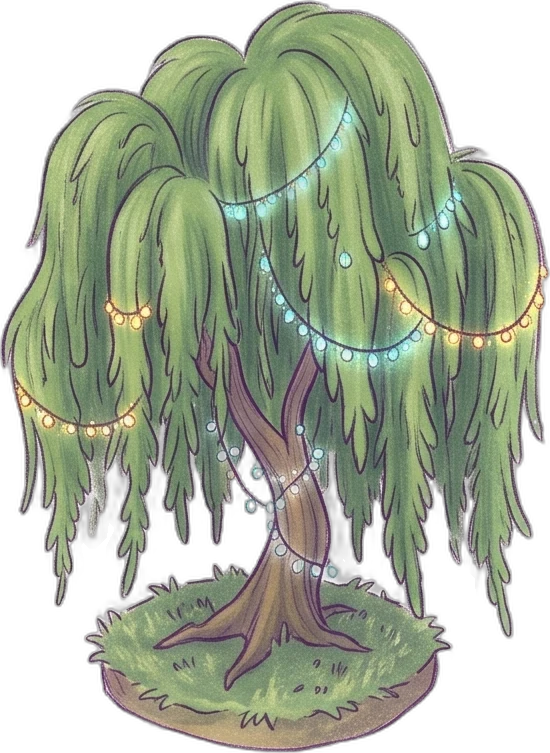
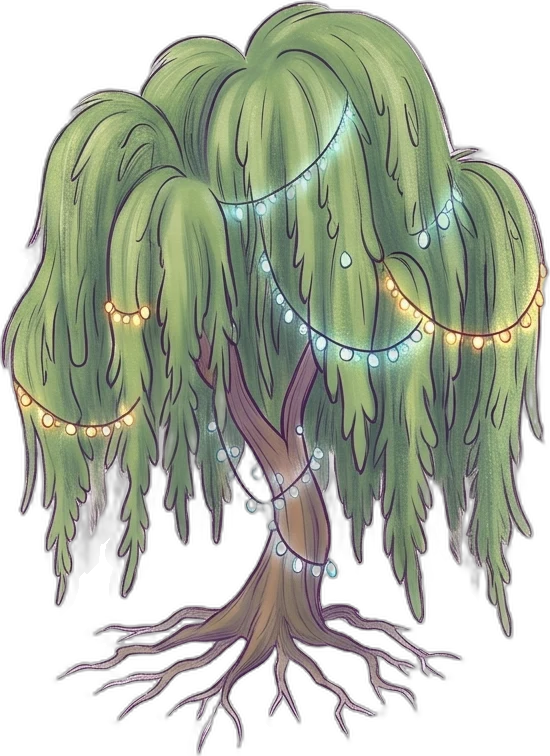
Build 194: trees redrawn without the round ground islands (her «Почему деревья на каком то пьедестале кружочком?»): forest1b sheet (SYNTX 2 tokens), trunks end in roots on the grass

diff --git a/js/game.js b/js/game.js
@@ -2,13 +2,13 @@
 import {
   OFFLINE_CAP_SEC, MAX_DESKS, MAX_ITEM_LEVEL, MAX_TEACHER_LEVEL, MAX_TIME_LEVEL,
   CLASSES, SPECIES, NAMES, MISSIONS, WORLDS, WORLD, META,
-} from './data.js?v=193';
-import { EMOJI_RE, emojiImage, preloadEmoji, watchEmoji, emojiHtml } from './emoji.js?v=193';
+} from './data.js?v=194';
+import { EMOJI_RE, emojiImage, preloadEmoji, watchEmoji, emojiHtml } from './emoji.js?v=194';
 
 const SAVE_KEY = WORLD === 1 ? 'magicschool.save.v2' : 'magicschool.save.v2.w' + WORLD;   // every world keeps its own save
 const saveKeyOf = (w) => (w === 1 ? 'magicschool.save.v2' : 'magicschool.save.v2.w' + w);
 const VERSION = '0.9';
-const BUILD = 193;   // keep equal to the ?v= number in index.html
+const BUILD = 194;   // keep equal to the ?v= number in index.html
 const $ = (s, r = document) => r.querySelector(s);
 const rnd = (a) => a[Math.floor(Math.random() * a.length)];
 
@@ -1465,7 +1465,7 @@ function statKey() { return (cantBuilt() ? (cantOpen() ? 'C' : 'c') : '') + S.cl
 const OUT_H = { oak: 180, blossom: 150, willow: 165, goldtree: 150, fir: 172, toadhouse: 96, glowmush: 40, crystals: 44, berrybush: 44, fern: 38, hedge: 42, roses: 40, roses2: 40, boulder: 40, bells: 38,
   runestone: 44, stump: 32, starflowers: 30, pumpkin: 60, well: 70, beehive: 46, birdbath: 42, chestmush: 34, fairyring: 46 };   // world px; a class wall is ~106, a student 30 (her ruling: trees must be big)
 const outLo = {};   // small copies (240 px tall) for the far view: downscaling an 800 px tree every frame is slow
-for (const n of ['grass', 'path', ...Object.keys(OUT_H)]) { const im = new Image(); im.onload = () => { staticKey = ''; if (im.naturalHeight > 300) { const c = document.createElement('canvas'), k = 240 / im.naturalHeight; c.width = Math.round(im.naturalWidth * k); c.height = 240; c.getContext('2d').drawImage(im, 0, 0, c.width, c.height); outLo[n] = c; } }; im.src = `assets/parts/outdoor/${n}.webp?v=1`; parts['outdoor/' + n] = im; }
+for (const n of ['grass', 'path', ...Object.keys(OUT_H)]) { const im = new Image(); im.onload = () => { staticKey = ''; if (im.naturalHeight > 300) { const c = document.createElement('canvas'), k = 240 / im.naturalHeight; c.width = Math.round(im.naturalWidth * k); c.height = 240; c.getContext('2d').drawImage(im, 0, 0, c.width, c.height); outLo[n] = c; } }; im.src = `assets/parts/outdoor/${n}.webp?v=2`; parts['outdoor/' + n] = im; }
 let GRASS_ON = true, BG_OFF = false;
 const hash2 = (x, y, k = 0) => { let h = (x * 374761393 + y * 668265263 + k * 2246822519) | 0; h = Math.imul(h ^ (h >>> 13), 1274126177); return ((h ^ (h >>> 16)) >>> 0) / 4294967296; };
 let OUTDOOR = [], outKey = '', OUT_ON = true;   // the random scatter is off (her verdict 2026-11-22: «понатыкано тыщу элементов», and it lagged)

diff --git a/index.html b/index.html
@@ -12,7 +12,7 @@
 <link rel="manifest" href="manifest.webmanifest">
 <link rel="apple-touch-icon" href="icons/icon-180.png?v=2">
 <link rel="icon" href="icons/icon-192.png?v=2">
-<link rel="stylesheet" href="style.css?v=193">
+<link rel="stylesheet" href="style.css?v=194">
 </head>
 <body>
 <div id="app">
@@ -34,6 +34,6 @@ window.addEventListener('error',function(e){showErr(e.message+' @'+(e.filename||
 window.addEventListener('unhandledrejection',function(e){showErr(String(e.reason));});
 if(!CanvasRenderingContext2D.prototype.roundRect){CanvasRenderingContext2D.prototype.roundRect=function(x,y,w,h){this.rect(x,y,w,h);};}
 </script>
-<script type="module" src="js/game.js?v=193"></script>
+<script type="module" src="js/game.js?v=194"></script>
 </body>
 </html>

diff --git a/js/emoji.js b/js/emoji.js
@@ -1,6 +1,6 @@
 // One emoji look on every device: emoji characters are replaced by bundled Twemoji pictures
 // (CC-BY 4.0, https://github.com/jdecked/twemoji), both in the page (DOM) and on the canvas.
-import { EMOJI_FILES } from './emoji-set.js?v=193';
+import { EMOJI_FILES } from './emoji-set.js?v=194';
 
 export const EMOJI_RE = /\p{Extended_Pictographic}(?:|\p{Extended_Pictographic}?|[\u{1F3FB}-\u{1F3FF}])*/gu;
 
